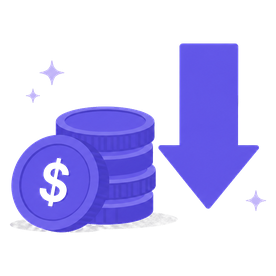
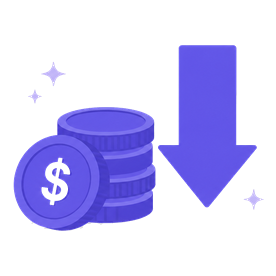
Tighten glance coins knockout so the plate does not show
Keep the 276×276 RGBA square and row layout; drop leftover lavender pixels and force a transparent image background.

diff --git a/src/app/page.tsx b/src/app/page.tsx
@@ -312,7 +312,7 @@ export default function HomePage() {
               alt=""
               width={276}
               height={276}
-              className="h-16 w-16 shrink-0 object-contain sm:h-20 sm:w-20"
+              className="h-16 w-16 shrink-0 bg-transparent object-contain sm:h-20 sm:w-20"
             />
           </div>
           <div className="mt-4 grid grid-cols-2 gap-4">
